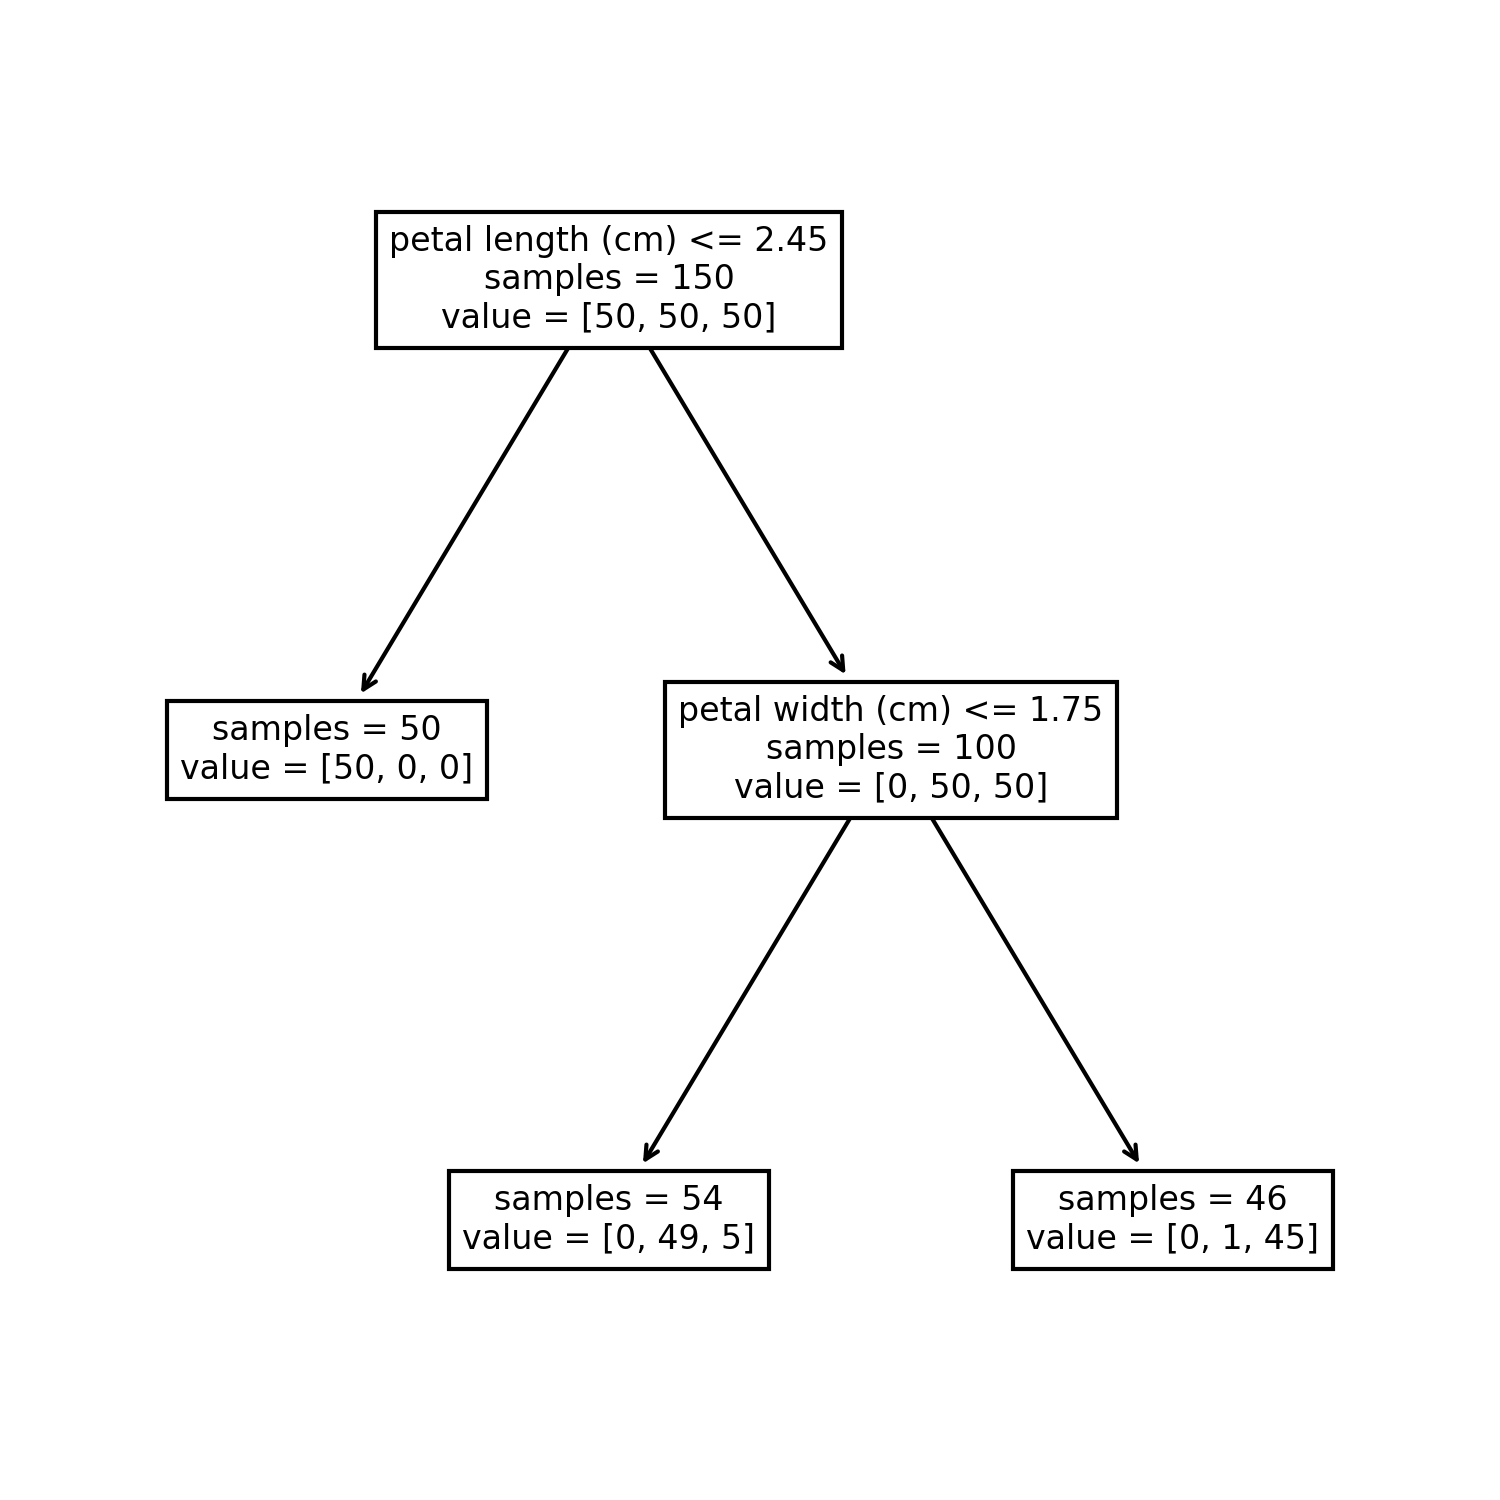
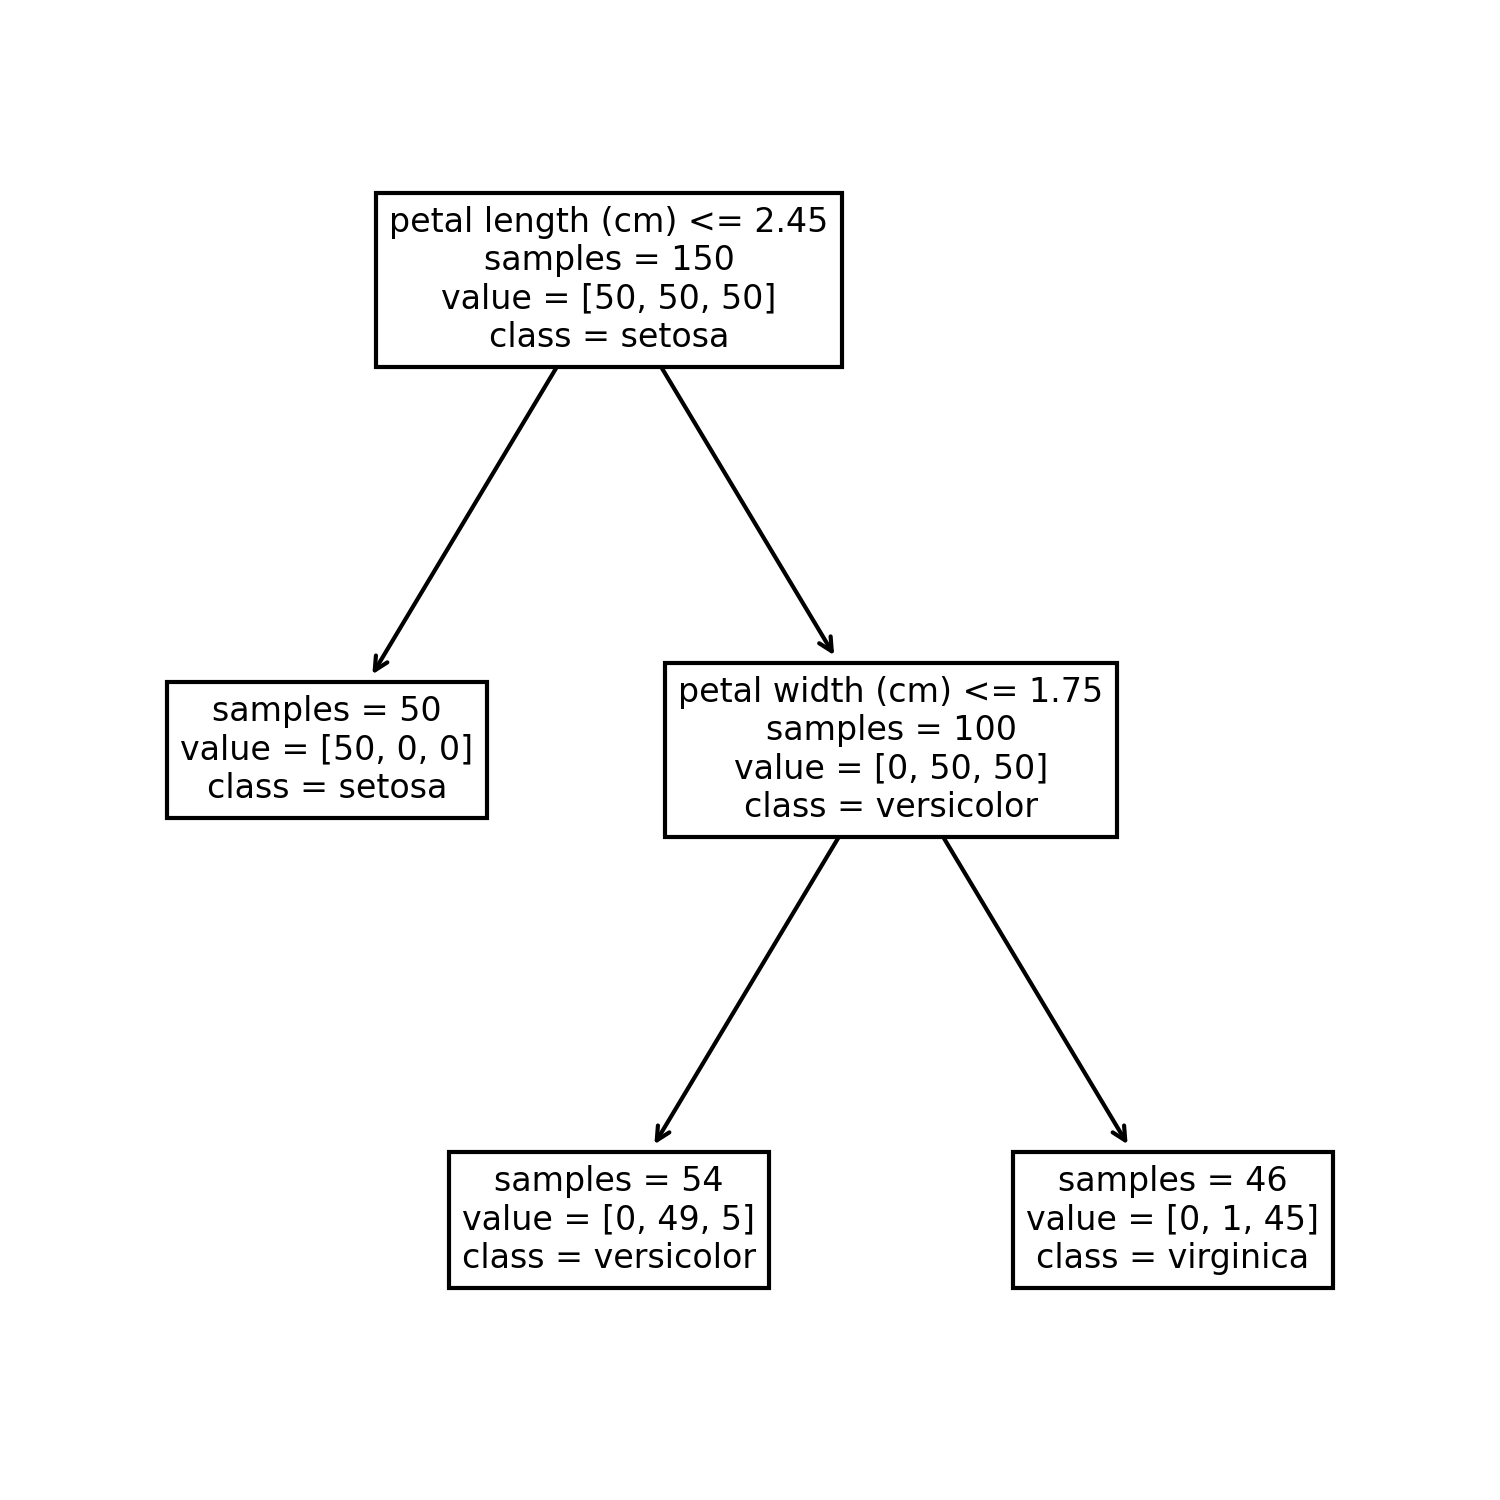
modified some graphs and redacted draft

diff --git a/introduction_to_machine_learning/images/gif_decision_tree/decision_tree.py b/introduction_to_machine_learning/images/gif_decision_tree/decision_tree.py
@@ -23,7 +23,8 @@ y = iris.target
 model = tree.DecisionTreeClassifier(max_leaf_nodes=3)
 model.fit(X, y)
 f, ax = plt.subplots(figsize=[5, 5])
-tree.plot_tree(model, ax=ax, feature_names=iris["feature_names"], impurity=False)
+tree.plot_tree(model, ax=ax, feature_names=iris["feature_names"],
+               class_names=iris["target_names"], impurity=False)
 f.tight_layout()
 f.savefig(path / "decision_tree.png", transparent=True, dpi=300)
 
@@ -78,7 +79,8 @@ for i in range(1, 21):
     model = tree.DecisionTreeClassifier(max_leaf_nodes=i+1)
     model.fit(Xobs, Yobs)
     Y = model.predict(X.reshape(-1, 2)).reshape(X.shape[:2])
-    tree.plot_tree(model, ax=ax2, impurity=False, feature_names=["X1", "X2"])
+    tree.plot_tree(model, ax=ax2, impurity=False, feature_names=["X1", "X2"], 
+                   class_names=["red", "blue"])
 
     R = Y < 0.5
     B = Y >= 0.5

diff --git a/introduction_to_machine_learning/images/polynomial/polynomial.py b/introduction_to_machine_learning/images/polynomial/polynomial.py
@@ -30,7 +30,7 @@ sys.path.append(str(path.parent))
 from models_data import target, regression_data, classification_data
 
 Xobs, Yobs = regression_data()
-n = 20
+n = 10
 w = fit(Xobs.reshape(-1, 2), Yobs.reshape(-1), n)
 X = np.stack(np.meshgrid(np.linspace(-1, 1, 101), np.linspace(-1, 1, 101)), axis=-1)
 Z = model(X.reshape(-1, 2), w, n).reshape(X.shape[:-1])

diff --git a/introduction_to_machine_learning/introduction_to_machine_learning.md b/introduction_to_machine_learning/introduction_to_machine_learning.md
@@ -34,7 +34,7 @@ In the previous example, lets assume we have measurements of the trajectory of a
 
 This kind of approach was first publicated by Adrien-Marie Legendre in *Nouvelles méthodes pour la détermination des orbites des comètes* in 1805. He applied this method to find the equation of the conic best describing the trajectory of a comete. For his application, Legendre formalized the "best fit" as the set of parameters which minimizes the sum of square deviations between model and measurement points. The square in this criterion gives an higher weight to big errors, and takes the absolute value of the errors so that they can't compensate each others. This was coined as the least squares method.
 
-For some specific cases, the sum of squared errors admits a single minimum and no maximum. Consequently the zero of its derivative with regards the parameters gives the best fiting set of parameters: the best fit is given by an analytical solution. This is notably the case for linear models.
+For some specific cases, the sum of squared errors admits a single minimum and no maximum. Consequently the zero of its derivative with regards the parameters gives the best fiting set of parameters: the best fit is given by an analytical solution. Legendre notably gave an analytical solution of the optimum parameters (in the least squares sense) for linear model.
 
 ## Numerical optimization
 
@@ -70,9 +70,9 @@ There exist a lot of variations, some more complex involving keeping the n best 
 
 This algorithm is less often used than gradient descent because it usually requires more function evaluation to obtain the same results, due to the fact that displacements are random and not guided by a "slope". However it has the advantage of handling non-diferentiable cost functions and integer parameters natively.
 
-## Universal regressors and overfiting
+## Universal approximators and overfiting
 
-Thanks to numerical optimization we can fit any parametric model to observations. However finding an adequate mathematical model for each practical case would be an inefficient approach. Some universal regressors, that can approximate any function by as close as wanted, are used instead. Usualy, the number of parameters of these models can be adjusted, and increasing the number of parameters increase the expressive power of these models.
+Thanks to numerical optimization we can fit any parametric model to observations. However finding an adequate mathematical model for each practical case would be an inefficient approach. Some universal approximators, that can approximate any function by as close as wanted, are used instead. Usualy, the number of parameters of these models can be adjusted, and increasing the number of parameters increase the expressive power of these models.
 
 Setting the number of parameters too low might hurt expresiveness of the model, and as such the model might underperform. Setting the number of parameters too high, in addition to hurt computation speed, might also give the model an excess of expressive power. Which might hurt generalization capability of the model because it learns noise of a sample and not a general trend in the data. This is called overfitting. The parameters that are chosen once and not changed during fitting, such as the number of parameters, are called hyper-parameters of the model.
 
@@ -98,7 +98,7 @@ This kind of models have the advantage to have an analytical solution for the pa
 
 ![linear and polynomials models](images/linear_regression/linear_regression.png)
 
-Polynomials are in theory universal regressors (see Lagrange polynomial interpolation). In practice they generalize poorly to new data, especially with high polynomial orders. And as illustrated below its expressive power scales poorly with polynomial order. Even for a simple 1D function such has the absolute value. For this reason this kind of models are usualy restricted to linear models or low order polynomials. They are used alone to describe low complexity functions, as piecewise linear function or piecewise polynomials for more complex functions (for example NASA polynomials fitted to describe thermodynamic parameters).
+Polynomials are in theory universal approximators (see Lagrange polynomial interpolation). In practice they generalize poorly to new data, especially with high polynomial orders. And as illustrated below its expressive power scales poorly with polynomial order. Even for a simple 1D function such has the absolute value. For this reason this kind of models are usualy restricted to linear models or low order polynomials. They are used alone to describe low complexity functions, as piecewise linear function or piecewise polynomials for more complex functions (for example NASA polynomials fitted to describe thermodynamic parameters).
 
 ![poor fitting with polynomial](images/gif_v_shape_linear_regression/v_shape.gif)
 
@@ -108,7 +108,7 @@ The fitting of our test function gives the following result:
 
 ### k nearest neighbours
 
-The k nearest neighbours model was invented in 1951 by Joseph Hodges. It is an interpolation method from labeled observations rather than a parametric model. The Y value of a new observation is given by the average (sometime weighted by inverse distance) of the Y of the k closest labeled observations, with the integer k an hyperparameter of the model (usualy 3 or 5).
+The k nearest neighbours model was invented in 1951 by Joseph Hodges. It is an interpolation method from labeled observations rather than a parametric model. The Y value of a new observation is given by the average (sometime weighted by inverse distance) of the Y of the k closest labeled observations, with the integer k an hyperparameter of the model (usualy 3 or 5). It is an universal approximator by definition if the obsevations are weighted by inverse distance, because then it predicts without any error all the training observations.
 
 ![knn evaluation](images/k_nearest_neighbours/k_nearest_evaluation.png)
 
@@ -122,8 +122,20 @@ The evaluation on test data gives the following results:
 
 ### decision tree
 
+Decision tree are models that consist in successive binary splits of the training data using threshold criterion on input variables. The leafs of the obtained tree are associated to a constant prediction value, either a class for classification or a numerical value for regression. For classification, the class predicted at a leaf is the most frequent class amongst training data in this leaf. For regression, the numerical value predicted at a leaf is the average of the target values amongst training data in this leaf. If we make enough splits, there will be only one training observation in each leaf, which proves that this model is an universal approximator. To avoid reaching this state of overfitting, a maximum number of split can be chosen as an hyper-parameter. Sometimes there are additional stoping criteria such as the maximum depth of the tree, and the minimum number of sample in a leaf to allow the split.
+
 ![decision tree](images/gif_decision_tree/decision_tree.png)
+
+During training the tree is expanded step by step by splitting one of the leafs in two at each step. There is a finite number of ways of spliting a set of observations in two groups with a threshold on an input variable (because we only consider thresholds at mid-distance between two distinct consecutive values of the variable). There is a finite number of input variables to split on. Consequently there is a finite number of ways of spliting a leaf of the tree. During training, all possible splits of all leafs are explored and scored. The next split chosen at each step is the split that scores best. This greedy algorithm doesn't ensure that the split are chosen optimaly for the final result, but exploring all possible trees would be prohibitively slow. For regression, the score chosen is usualy the reduction of mean squared error of the model (which simplifies to the difference between initial set variance and the average of variance of the two new sets). For classification, the score is usualy chosen as the reductions of the cross entropy of the model (which simplifies to the difference between cross entropy of the initial set and the sum of the cross entropy of the two new sets).
+
+Decision tree have the advantage of needing no data normalization whatsoever, as they are not trained using an optimization method. The results of the model are easy to understand as the decision process for a prediction is a succession of conditions. They are also relatively robust to sparse data as even for regions with no close training observations, the evaluation of the model will remain in a reasonable range thanks to the constant prediction values. Another advantage of decision trees for regression is that the splits can be constrained for the model to be monotonously increasing or decreasing along specified input variables.
+
+The training on the test data give the following results.
 
 ![decision tree regression](images/gif_decision_tree/decision_tree_regression.gif)
 
 ![decision tree classification](images/gif_decision_tree/decision_tree_classification.gif)
+
+## multilayer perceptrons
+
+Multi layer perceptron are a type of neural network that can be used for regression or classification from tabular data.
